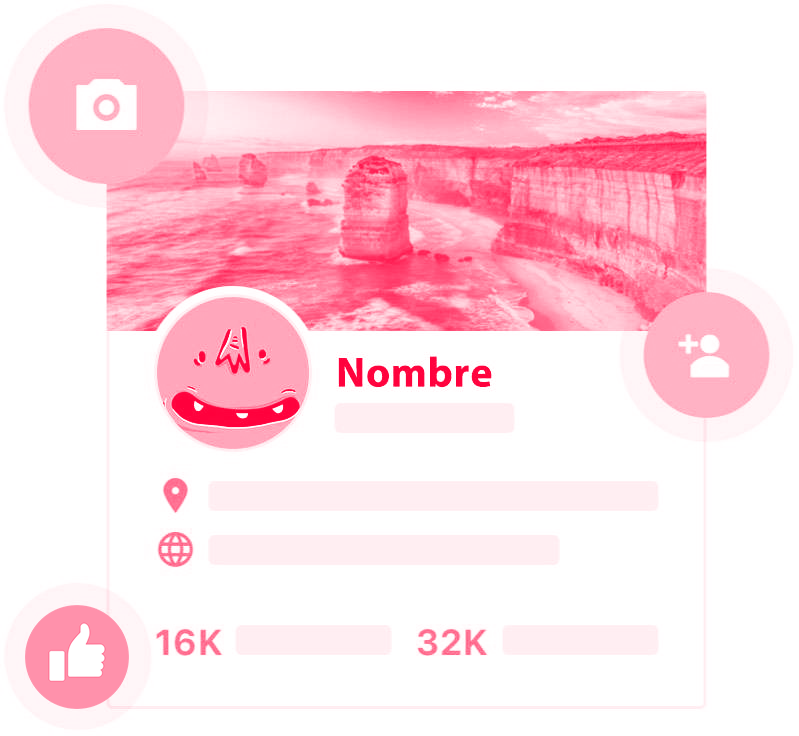
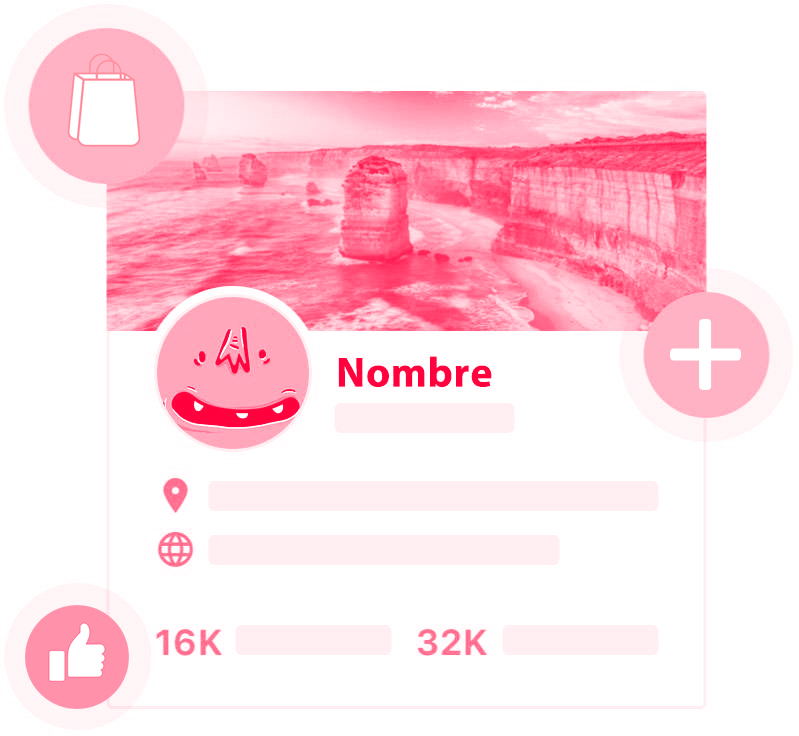
i added a image in the userGuest screen

Changed region(s): [[0.0601, 0.0625, 0.1802, 0.2188], [0.8411, 0.4375, 0.9312, 0.5312]]

diff --git a/App/screens/acount/UserGuest.js b/App/screens/acount/UserGuest.js
@@ -8,18 +8,19 @@ export default function UserGuest() {
     const navigation = useNavigation();
     return (
         <ScrollView centerContent={true} style={styles.viewBody}>
-      
-      <Text style={styles.title}>Ofrece tus servicios</Text>
-      <Text style={styles.description}>¿Como describirías tu mejor restaurante? Busca y situaliza los mejores
-      restaurantes de una forma sencilla, vota cual te ha gustado más, Pide directamente al restaurante desde tu casa, Nosotros lo llevamos! Y
-      comenta como ha sido tu experiencia.</Text>
-      <View style={styles.viewBtn}>
-        <Button
-          buttonStyle={styles.btnstyle}
-          containerStyle={styles.btnContainer}
-          title="Ver tu perfil"
-          onPress={() => navigation.navigate("login")}/>
-      </View>
+        <Image
+          style={styles.image}
+          source={require("../../../assets/img/user-guest.png")}
+        />
+        <Text style={styles.title}>¡Ofrece tus servicios!</Text>
+        <Text style={styles.description}>Sé el mejor en tu nicho, ofrece el mejor producto o servicio y aumenta tus ventas.</Text>
+        <View style={styles.viewBtn}>
+          <Button
+            buttonStyle={styles.btnstyle}
+            containerStyle={styles.btnContainer}
+            title="Ver tu perfil"
+            onPress={() => navigation.navigate("login")}/>
+        </View>
     </ScrollView>
     )
 }

diff --git a/App/navigations/AcountStack.js b/App/navigations/AcountStack.js
@@ -19,7 +19,7 @@ export default function AcountStack(){
       <Stack.Screen
         name = "userGuest"
         component = {UserGuest}
-        options = { {title : "Ingresa y ofrece tus servicios"}}
+        options = { {title : "IRapidín"}}
       />
       <Stack.Screen
         name = "login"
